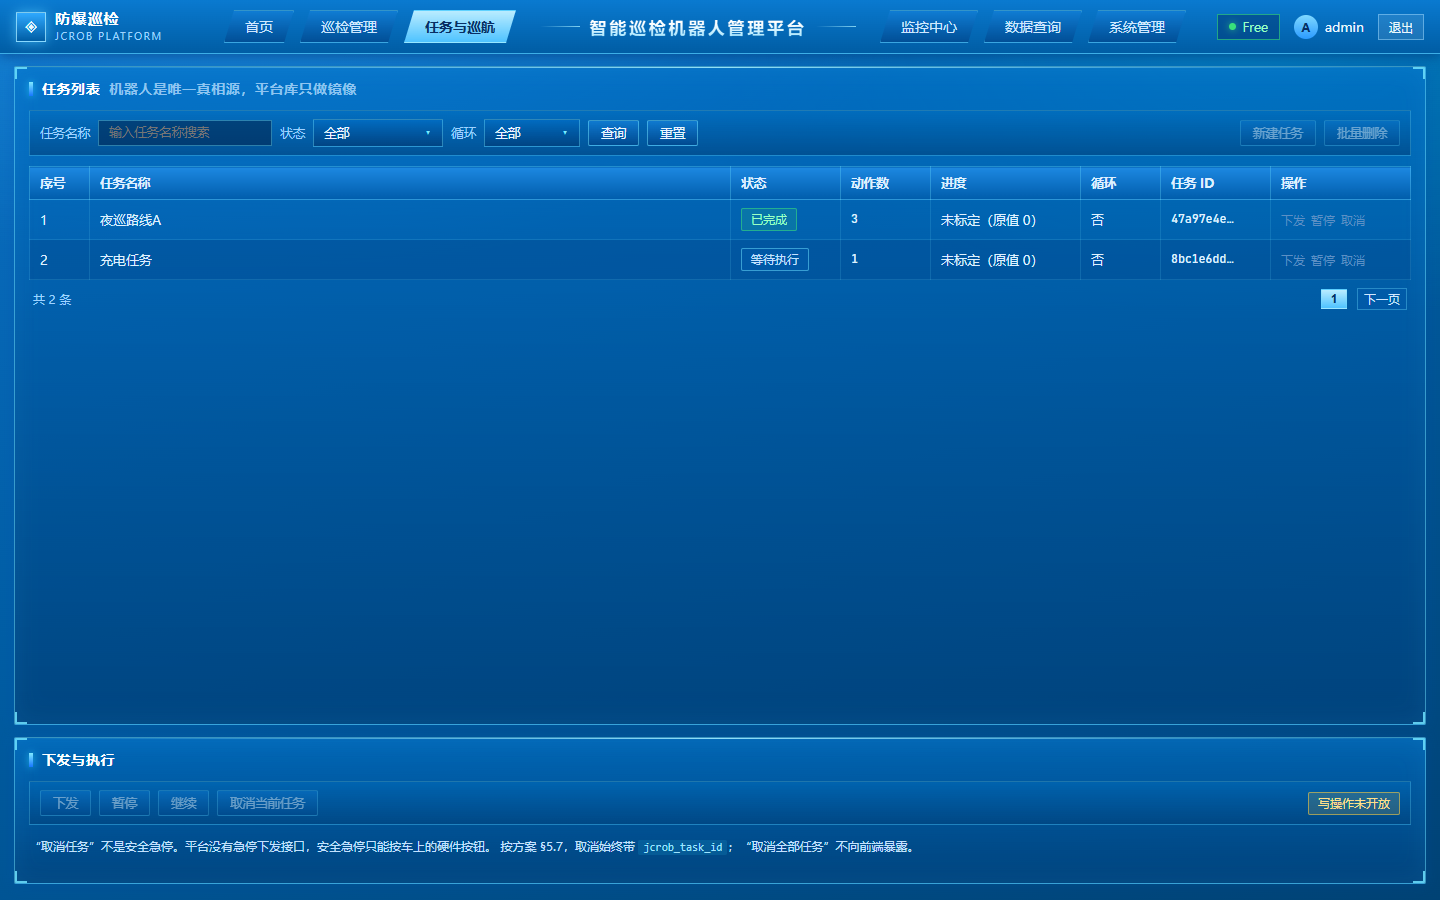
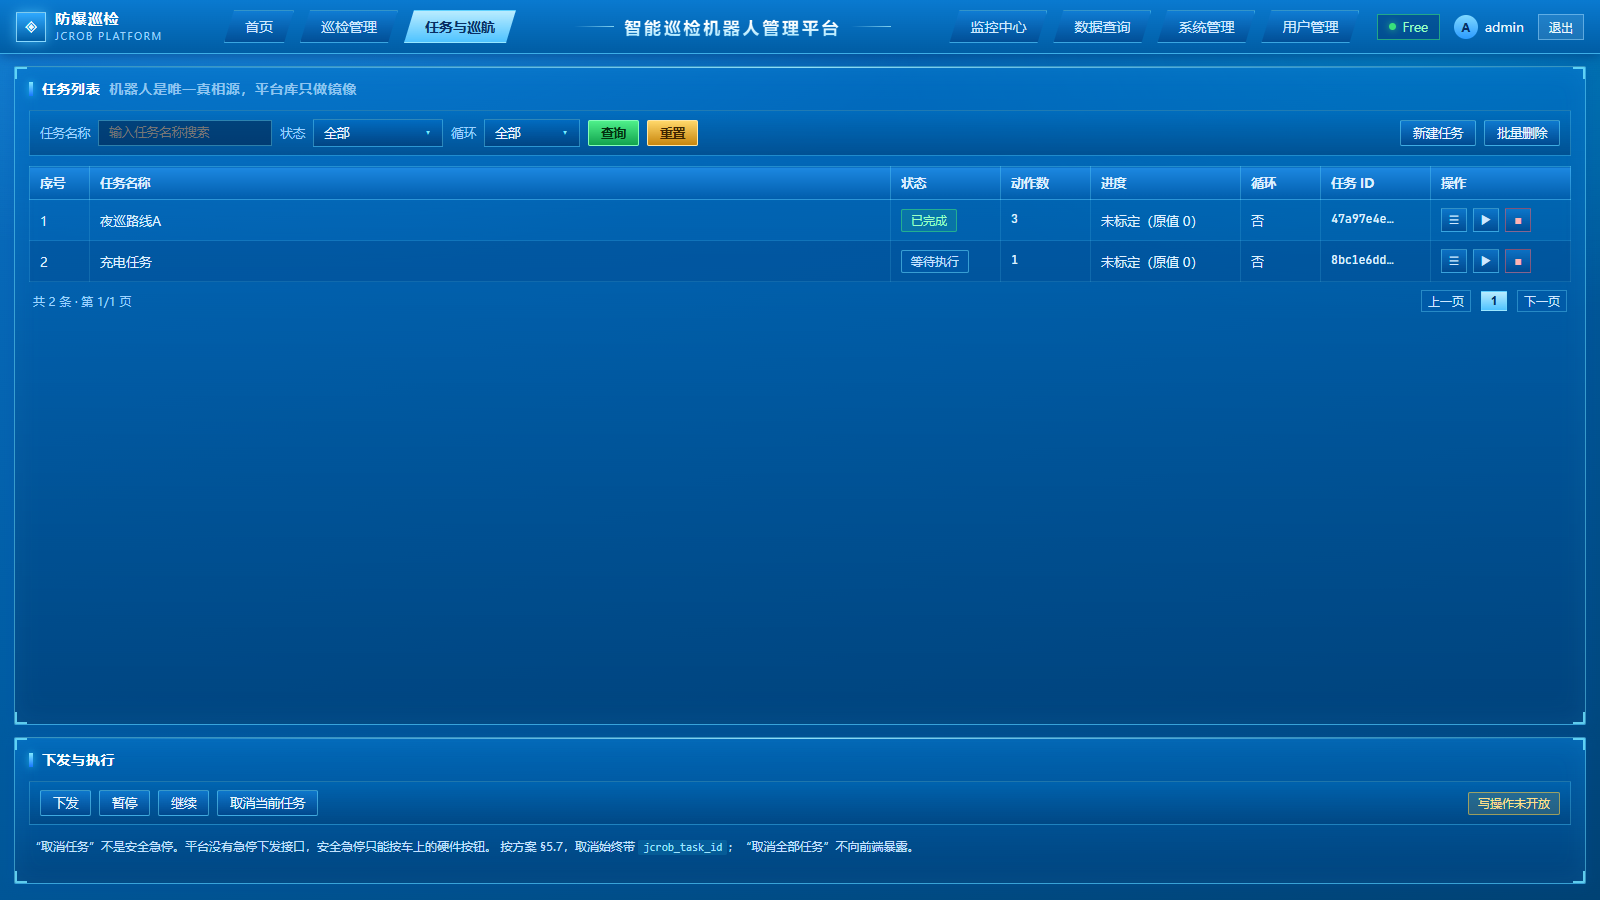
feat(web): 全站按钮消死键 + 按参考图改按钮样式
- 新增 WriteLockedDialog：写操作类按钮点了给明确原因（方案 §5.7 / 采集表 15-17 行），
  不再是灰着不动的死按钮
- 任务页：新建任务/批量删除/下发/暂停/继续/取消当前任务全部可点并有反馈
- 地图页：新增点位/同步 nav_points 同样给出锁定说明
- 工具条按钮按参考图配色：查询=绿、重置=金
- 表格行内操作改成小方块图标按钮（☰ 详情 / ▶ 下发 / ■ 取消 / ⚿ 重置密码 / 🗑 删除）
- 任务与告警列表补真实分页（每页 10 条，上一页/页码/下一页），不再是写死的 1 和灰的下一页

diff --git a/web/src/pages/Tasks.vue b/web/src/pages/Tasks.vue
@@ -3,6 +3,7 @@ import { computed, onMounted, ref } from 'vue'
 import { api, type TaskItem } from '@/api'
 import DarkSelect from '@/components/DarkSelect.vue'
 import { toast } from '@/composables/useToast'
+import WriteLockedDialog from '@/components/WriteLockedDialog.vue'
 
 const tasks = ref<TaskItem[]>([])
 const loading = ref(false)
@@ -48,6 +49,13 @@ const filtered = computed(() =>
   }),
 )
 
+const paged = computed(() => filtered.value.slice((page.value - 1) * pageSize, page.value * pageSize))
+const pageCount = computed(() => Math.max(1, Math.ceil(filtered.value.length / pageSize)))
+
+function goto(p: number) {
+  page.value = Math.min(Math.max(1, p), pageCount.value)
+}
+
 async function reload() {
   loading.value = true
   error.value = ''
@@ -61,6 +69,9 @@ async function reload() {
 }
 
 const detail = ref<TaskItem | null>(null)
+const locked = ref('')
+const page = ref(1)
+const pageSize = 10
 
 function tryWrite(action: string) {
   toast(`${action}未开放：需真机联调通过 + 现场授权签字`, 'warn', 3000)
@@ -70,6 +81,7 @@ function reset() {
   keyword.value = ''
   stateFilter.value = ''
   loopFilter.value = ''
+  page.value = 1
 }
 
 onMounted(reload)
@@ -90,11 +102,11 @@ onMounted(reload)
         <DarkSelect v-model="stateFilter" :options="stateOptions" width="130px" />
         <label>循环</label>
         <DarkSelect v-model="loopFilter" :options="loopOptions" width="96px" />
-        <button class="btn btn-sm" :disabled="loading" @click="reload">查询</button>
-        <button class="btn btn-sm" @click="reset">重置</button>
+        <button class="btn btn-sm ok" :disabled="loading" @click="reload">查询</button>
+        <button class="btn btn-sm warn" @click="reset">重置</button>
         <span class="grow" />
-        <button class="btn btn-sm" disabled>新建任务</button>
-        <button class="btn btn-sm" disabled>批量删除</button>
+        <button class="btn btn-sm" @click="locked = '新建任务'">新建任务</button>
+        <button class="btn btn-sm" @click="locked = '批量删除任务'">批量删除</button>
       </div>
 
       <table class="grid">
@@ -111,8 +123,8 @@ onMounted(reload)
           </tr>
         </thead>
         <tbody>
-          <tr v-for="(t, i) in filtered" :key="t.id">
-            <td>{{ i + 1 }}</td>
+          <tr v-for="(t, i) in paged" :key="t.id">
+            <td>{{ (page - 1) * pageSize + i + 1 }}</td>
             <td>{{ t.name }}</td>
             <td><span class="tag" :class="stateTone[t.state] ?? ''">{{ stateText[t.state] ?? t.state }}</span></td>
             <td class="num">{{ Array.isArray(t.sub_tasks) ? t.sub_tasks.length : 0 }}</td>
@@ -121,9 +133,9 @@ onMounted(reload)
             <td class="num dim">{{ t.id.slice(0, 8) }}…</td>
             <td>
               <div class="row-actions">
-                <button class="link-btn" @click="detail = t">详情</button>
-                <button class="link-btn" @click="tryWrite('下发')">下发</button>
-                <button class="link-btn" @click="tryWrite('取消')">取消</button>
+                <button class="act" title="查看详情" @click="detail = t">☰</button>
+                <button class="act" title="下发任务（未开放）" @click="locked = '下发任务'">▶</button>
+                <button class="act danger" title="取消任务（未开放）" @click="locked = '取消任务'">■</button>
               </div>
             </td>
           </tr>
@@ -134,10 +146,14 @@ onMounted(reload)
       </table>
 
       <div class="pager">
-        <span>共 {{ filtered.length }} 条</span>
+        <span>共 {{ filtered.length }} 条 · 第 {{ page }}/{{ pageCount }} 页</span>
         <span class="spacer" />
-        <button class="on">1</button>
-        <button disabled>下一页</button>
+        <button :disabled="page <= 1" @click="goto(page - 1)">上一页</button>
+        <button
+          v-for="n in pageCount" :key="n"
+          :class="{ on: n === page }" @click="goto(n)"
+        >{{ n }}</button>
+        <button :disabled="page >= pageCount" @click="goto(page + 1)">下一页</button>
       </div>
 
       <p v-if="error" class="danger small">{{ error }}</p>
@@ -167,13 +183,15 @@ onMounted(reload)
     <section class="panel">
       <div class="panel-title"><span>下发与执行</span></div>
       <div class="toolbar" style="margin-bottom: 8px">
-        <button class="btn btn-sm" disabled>下发</button>
-        <button class="btn btn-sm" disabled>暂停</button>
-        <button class="btn btn-sm" disabled>继续</button>
-        <button class="btn btn-sm" disabled>取消当前任务</button>
+        <button class="btn btn-sm" @click="locked = '下发任务'">下发</button>
+        <button class="btn btn-sm" @click="locked = '暂停任务'">暂停</button>
+        <button class="btn btn-sm" @click="locked = '继续任务'">继续</button>
+        <button class="btn btn-sm" @click="locked = '取消当前任务'">取消当前任务</button>
         <span class="grow" />
         <span class="tag warn">写操作未开放</span>
       </div>
+      <WriteLockedDialog :open="!!locked" :action="locked" @close="locked = ''" />
+
       <p class="muted small">
         “取消任务”不是安全急停。平台没有急停下发接口，安全急停只能按车上的硬件按钮。
         按方案 §5.7，取消始终带 <code>jcrob_task_id</code>；“取消全部任务”不向前端暴露。

diff --git a/web/src/pages/Alarms.vue b/web/src/pages/Alarms.vue
@@ -12,6 +12,8 @@ const message = ref('')
 const keyword = ref('')
 const levelFilter = ref('')
 const ackFilter = ref('')
+const page = ref(1)
+const pageSize = 10
 
 const levelText: Record<string, string> = { critical: '严重', warn: '提醒' }
 const levelOptions = [
@@ -34,6 +36,13 @@ const filtered = computed(() =>
     return true
   }),
 )
+
+const paged = computed(() => filtered.value.slice((page.value - 1) * pageSize, page.value * pageSize))
+const pageCount = computed(() => Math.max(1, Math.ceil(filtered.value.length / pageSize)))
+
+function goto(p: number) {
+  page.value = Math.min(Math.max(1, p), pageCount.value)
+}
 
 const rules = [
   { metric: 'lel（可燃气体）', threshold: '未标定', note: '需要现场安全员给定 ppm 阈值' },
@@ -58,6 +67,7 @@ function reset() {
   keyword.value = ''
   levelFilter.value = ''
   ackFilter.value = ''
+  page.value = 1
 }
 
 onMounted(() => { void robot.refreshAlarms() })
@@ -78,8 +88,8 @@ onMounted(() => { void robot.refreshAlarms() })
         <DarkSelect v-model="levelFilter" :options="levelOptions" width="110px" />
         <label>状态</label>
         <DarkSelect v-model="ackFilter" :options="ackOptions" width="110px" />
-        <button class="btn btn-sm" @click="robot.refreshAlarms()">查询</button>
-        <button class="btn btn-sm" @click="reset">重置</button>
+        <button class="btn btn-sm ok" @click="robot.refreshAlarms()">查询</button>
+        <button class="btn btn-sm warn" @click="reset">重置</button>
         <span class="grow" />
         <button class="btn btn-sm" @click="robot.refreshAlarms()">刷新</button>
         <button class="btn btn-sm" @click="toast('导出待 W5 落库后开放', 'warn')">导出</button>
@@ -97,8 +107,8 @@ onMounted(() => { void robot.refreshAlarms() })
           </tr>
         </thead>
         <tbody>
-          <tr v-for="(a, i) in filtered" :key="a.id">
-            <td>{{ i + 1 }}</td>
+          <tr v-for="(a, i) in paged" :key="a.id">
+            <td>{{ (page - 1) * pageSize + i + 1 }}</td>
             <td class="num dim">{{ a.started_at.replace('T', ' ').slice(0, 19) }}</td>
             <td>
               <span class="tag" :class="a.level === 'critical' ? 'danger' : 'warn'">{{ levelText[a.level] }}</span>
@@ -109,7 +119,7 @@ onMounted(() => { void robot.refreshAlarms() })
               <span v-else class="danger">未确认</span>
             </td>
             <td>
-              <button class="link-btn" :disabled="!!a.acked_at || !auth.canWrite" @click="ack(a.id)">确认</button>
+              <button class="act" title="确认告警" :disabled="!!a.acked_at || !auth.canWrite" @click="ack(a.id)">✓</button>
             </td>
           </tr>
           <tr v-if="!filtered.length">
@@ -119,10 +129,14 @@ onMounted(() => { void robot.refreshAlarms() })
       </table>
 
       <div class="pager">
-        <span>共 {{ filtered.length }} 条</span>
+        <span>共 {{ filtered.length }} 条 · 第 {{ page }}/{{ pageCount }} 页</span>
         <span class="spacer" />
-        <button class="on">1</button>
-        <button disabled>下一页</button>
+        <button :disabled="page <= 1" @click="goto(page - 1)">上一页</button>
+        <button
+          v-for="n in pageCount" :key="n"
+          :class="{ on: n === page }" @click="goto(n)"
+        >{{ n }}</button>
+        <button :disabled="page >= pageCount" @click="goto(page + 1)">下一页</button>
       </div>
 
       <p v-if="message" class="danger small">{{ message }}</p>

diff --git a/web/src/styles/tokens.css b/web/src/styles/tokens.css
@@ -217,3 +217,34 @@ table.grid tbody tr:hover td { background: rgba(41, 212, 255, 0.16); }
   color: #7fe9ff; font-size: 12px; padding: 0;
 }
 .link-btn[disabled] { color: #5d8fc4; cursor: not-allowed; }
+/* ---------- 参考图里的按钮色：搜索绿、重置金 ---------- */
+.btn.ok {
+  background: linear-gradient(180deg, #4ef08a, #12a34e);
+  border-color: #86ffb8; color: #03300f; font-weight: 700;
+}
+.btn.ok:hover { filter: brightness(1.08); box-shadow: 0 0 12px rgba(78, 240, 138, 0.6); }
+.btn.warn {
+  background: linear-gradient(180deg, #ffd76a, #c8860d);
+  border-color: #ffe6a3; color: #3d2500; font-weight: 700;
+}
+.btn.warn:hover { filter: brightness(1.08); box-shadow: 0 0 12px rgba(255, 207, 63, 0.6); }
+
+/* ---------- 表格行内小方块图标按钮（参考图那种） ---------- */
+.act {
+  width: 26px; height: 24px;
+  display: inline-grid; place-items: center;
+  font-size: 12px; line-height: 1;
+  color: #cfe8ff; cursor: pointer;
+  background: linear-gradient(180deg, rgba(20, 130, 220, 0.6), rgba(0, 70, 140, 0.75));
+  border: 1px solid rgba(111, 227, 255, 0.45);
+  transition: all 0.12s;
+}
+.act:hover {
+  color: #062f66;
+  background: linear-gradient(180deg, #b9ecff, #4fc3ff);
+  box-shadow: 0 0 10px rgba(120, 220, 255, 0.6);
+}
+.act[disabled] { opacity: 0.4; cursor: not-allowed; }
+.act[disabled]:hover { color: #cfe8ff; background: linear-gradient(180deg, rgba(20, 130, 220, 0.6), rgba(0, 70, 140, 0.75)); box-shadow: none; }
+.act.danger { border-color: rgba(255, 90, 90, 0.5); color: #ffb3b3; }
+.act.danger:hover { background: linear-gradient(180deg, #ff9a9a, #d32020); color: #fff; }

diff --git a/web/src/components/WriteLockedDialog.vue b/web/src/components/WriteLockedDialog.vue
@@ -1,0 +1,38 @@
+<script setup lang="ts">
+defineProps<{ open: boolean; action: string }>()
+const emit = defineEmits<{ close: [] }>()
+</script>
+
+<template>
+  <div v-if="open" class="mask" @click.self="emit('close')">
+    <div class="dlg">
+      <div class="panel-title"><span>写操作未开放</span></div>
+      <p class="lead">「{{ action }}」要下发到机器人执行，现在被锁着。</p>
+      <ul class="reasons">
+        <li>方案 §5.7：所有写操作要等真机联调通过 + 现场授权签字</li>
+        <li>采集表 01 表 15–17 行：授权人、授权日期、紧急联系人</li>
+        <li>锁解除后这些按钮直接可用，页面不用改</li>
+      </ul>
+      <div class="foot">
+        <button class="btn btn-sm primary" @click="emit('close')">知道了</button>
+      </div>
+    </div>
+  </div>
+</template>
+
+<style scoped>
+.mask {
+  position: fixed; inset: 0; z-index: 130;
+  display: grid; place-items: center;
+  background: rgba(2, 14, 30, 0.66);
+}
+.dlg {
+  width: 460px; padding: 14px 16px 16px;
+  background: linear-gradient(180deg, rgba(0, 112, 200, 0.97), rgba(0, 60, 118, 0.98));
+  border: 1px solid rgba(255, 207, 63, 0.6);
+  box-shadow: 0 0 30px rgba(0, 60, 140, 0.7);
+}
+.lead { margin: 0 0 10px; font-size: 13px; color: #eaf7ff; }
+.reasons { margin: 0; padding-left: 18px; font-size: 12.5px; line-height: 1.9; color: #bcdcff; }
+.foot { display: flex; justify-content: flex-end; margin-top: 14px; }
+</style>

diff --git a/web/src/pages/MapPage.vue b/web/src/pages/MapPage.vue
@@ -1,6 +1,7 @@
 <script setup lang="ts">
 import { computed, onMounted, ref } from 'vue'
 import MapCanvas from '@/components/MapCanvas.vue'
+import WriteLockedDialog from '@/components/WriteLockedDialog.vue'
 import { api, type MapMeta, type NavPoint } from '@/api'
 import { useRobotStore } from '@/stores/robot'
 
@@ -34,6 +35,7 @@ onMounted(async () => {
   maps.value = await api.maps()
   if (maps.value.length) await choose(maps.value[0].name)
 })
+const locked = ref('')
 </script>
 
 <template>
@@ -83,9 +85,11 @@ onMounted(async () => {
         />
       </div>
       <p v-if="error" class="danger small">{{ error }}</p>
+      <WriteLockedDialog :open="!!locked" :action="locked" @close="locked = ''" />
+
       <div class="actions">
-        <button class="btn" disabled>新增点位（待真机单位实测）</button>
-        <button class="btn" disabled>同步 nav_points（写操作未开放）</button>
+        <button class="btn" @click="locked = '新增点位'">新增点位</button>
+        <button class="btn" @click="locked = '同步 nav_points'">同步 nav_points</button>
       </div>
     </section>
   </div>

diff --git a/web/src/pages/Users.vue b/web/src/pages/Users.vue
@@ -158,11 +158,11 @@ onMounted(reload)
               <td class="num dim">{{ (u.last_login_at ?? '—').replace('T', ' ').slice(0, 19) }}</td>
               <td>
                 <div class="row-actions">
-                  <button class="link-btn" @click="resetting = u; newPassword = ''">重置密码</button>
-                  <button class="link-btn" :disabled="u.id === auth.user?.id" @click="toggleActive(u)">
-                    {{ u.is_active ? '停用' : '启用' }}
+                  <button class="act" title="重置密码" @click="resetting = u; newPassword = ''">⚿</button>
+                  <button class="act" :title="u.is_active ? '停用' : '启用'" :disabled="u.id === auth.user?.id" @click="toggleActive(u)">
+                    {{ u.is_active ? '⏸' : '▶' }}
                   </button>
-                  <button class="link-btn danger-text" :disabled="u.id === auth.user?.id" @click="remove(u)">删除</button>
+                  <button class="act danger" title="删除账号" :disabled="u.id === auth.user?.id" @click="remove(u)">🗑</button>
                 </div>
               </td>
             </tr>

diff --git a/web/src/pages/History.vue b/web/src/pages/History.vue
@@ -137,7 +137,7 @@ onMounted(async () => {
           <label>止</label>
           <input class="input date" type="date" v-model="to" />
         </template>
-        <button class="btn btn-sm" @click="reset">重置</button>
+        <button class="btn btn-sm warn" @click="reset">重置</button>
         <span class="grow" />
         <button class="btn btn-sm" :disabled="loading" @click="loadTasks">刷新</button>
         <button class="btn btn-sm primary" @click="exportCurrent">导出 CSV</button>
